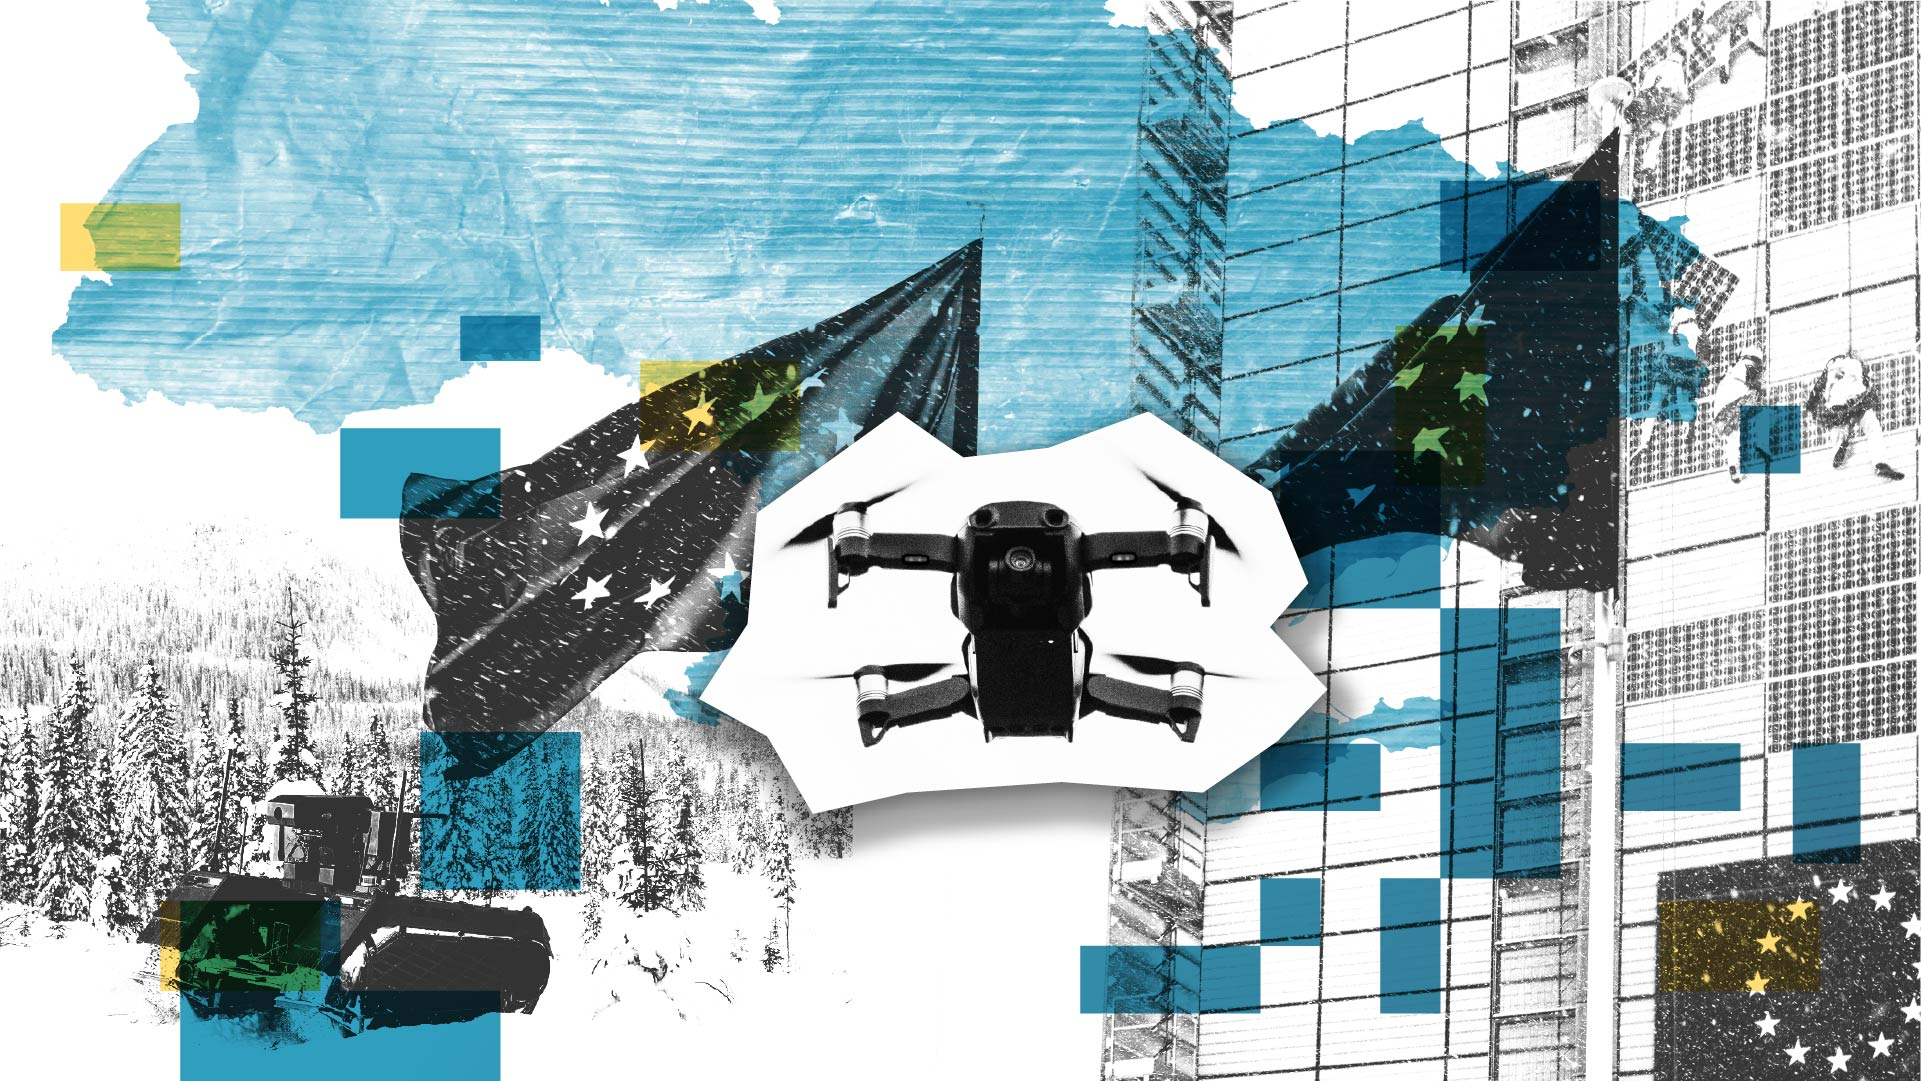
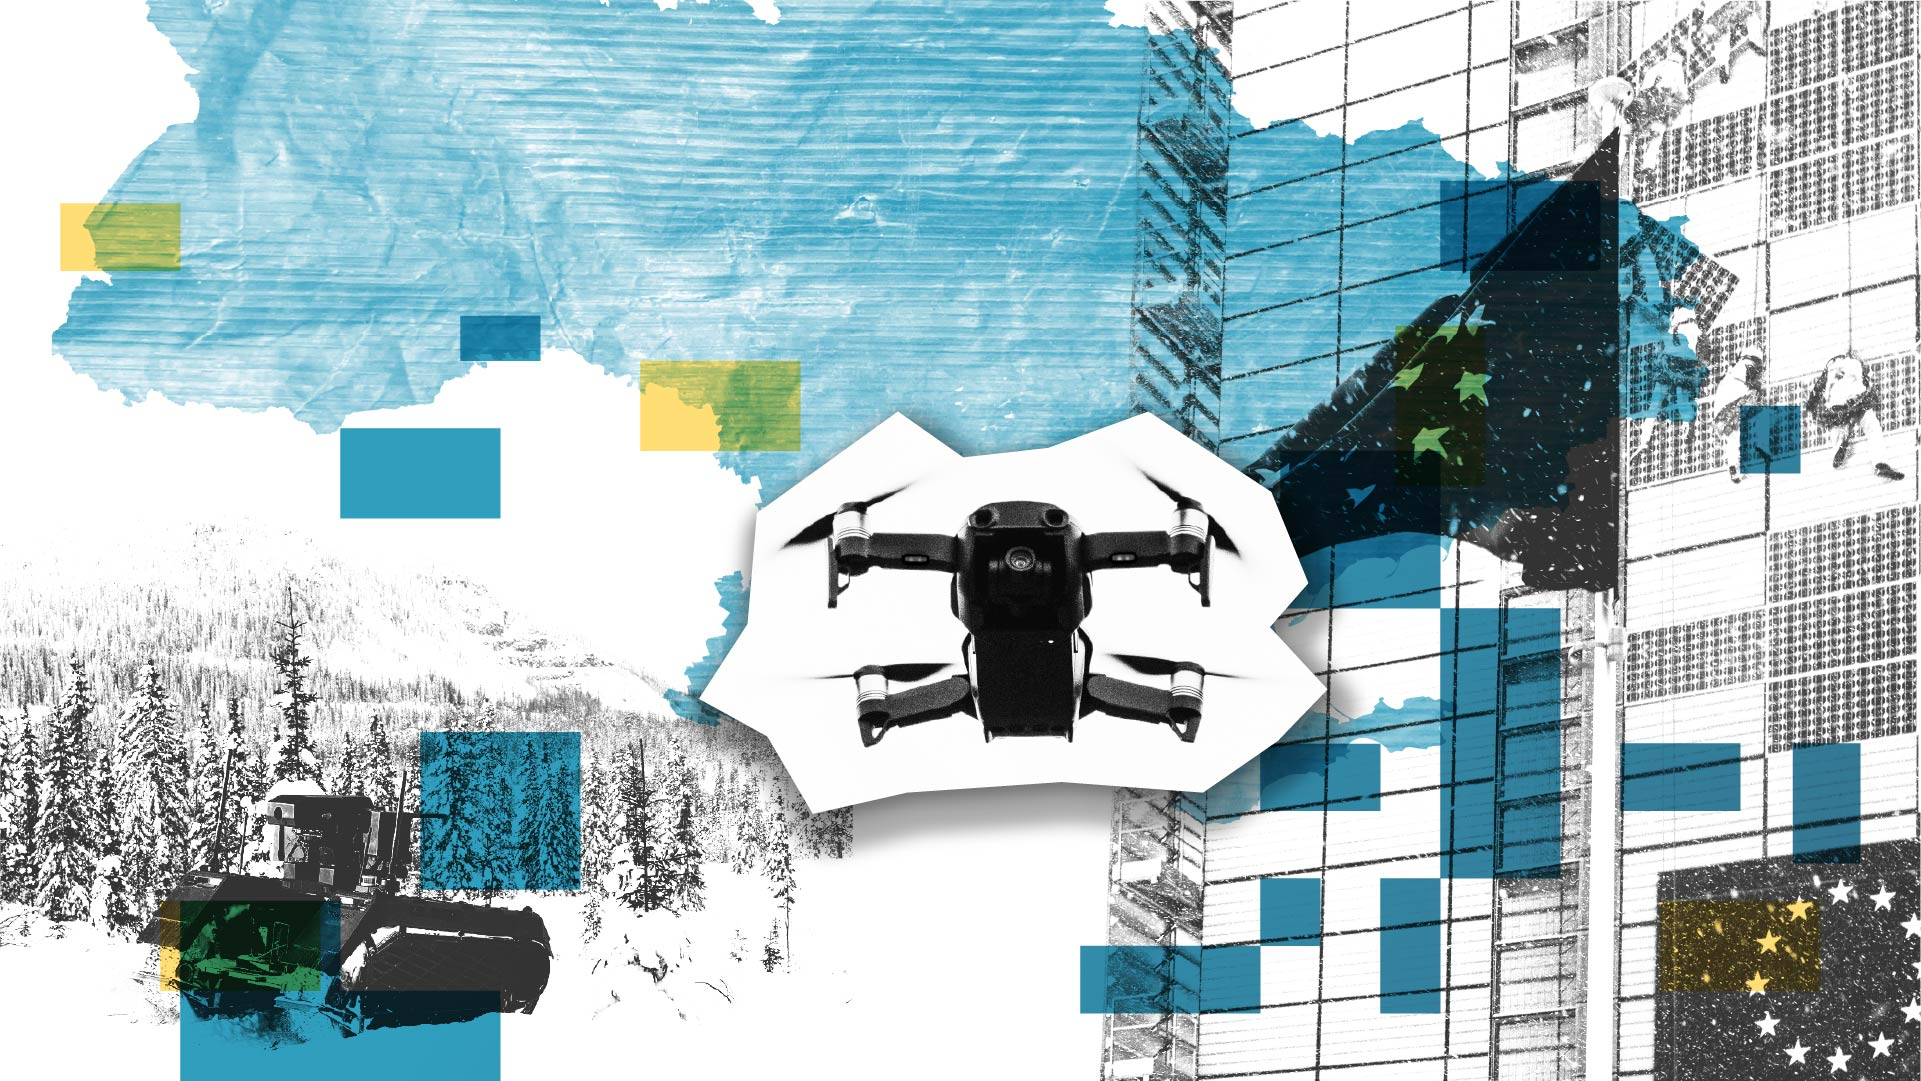
odls tile

Changed region(s): [[0.1874, 0.2137, 0.531, 0.7327], [0.5934, 0.9463, 0.6247, 0.9769], [0.5934, 0.8242, 0.6247, 0.8548]]

diff --git a/tiles_rev1.html b/tiles_rev1.html
@@ -168,20 +168,6 @@
     }
 </style>
 
-<!-- ── CHAPTER CARDS WITH HERO IMAGES ───────────────────────── -->
-
-<p class="body_4-body">More than three years into Russia's full-scale invasion, Ukraine's survival is no longer the only
-    question on the table — its long-term empowerment is. That shift demands more than emergency support: it calls for a
-    coherent European strategy that spans sanctions enforcement, defence-industrial cooperation, enlargement, and
-    reconstruction alike.</p>
-
-<p class="body_4-body">This collection brings together eleven chapters from EU policy analysts, each examining a
-    distinct front in that effort — from closing sanctions loopholes on Russian energy and countering Kremlin
-    recruitment abroad, to deepening joint arms production, financing reconstruction, and getting enlargement right.</p>
-
-<p class="body_4-body">Together, they set out a practical agenda for turning wartime solidarity into structural support
-    — one that outlasts the current phase of the war and gives Ukraine the tools to shape its own recovery.</p>
-
 <!-- ── CHAPTER CARDS WITH HERO IMAGES ─────────────────────────
      Hero images replace author mugshots throughout this section.
      template_energy.jpg → Chapter 1 (Energy & sanctions)
@@ -192,11 +178,12 @@
 
     <!-- INTRO BLURB -->
     <div class="intro-blurb">
-        <p class="body_4-body">Three years into Russia's full-scale invasion, survival is no longer the only
-            question facing Ukraine — its long-term empowerment is. This introduction sets out why the EU needs
-            a coherent strategy spanning sanctions enforcement, defence-industrial cooperation, enlargement and
-            reconstruction, and frames the eleven chapters that follow as a practical agenda for getting
-            <span class="body_0-no-break">there.</span>
+        <p class="body_4-body">Europe should step up its support for Ukraine, despite its limited resources.
+            Fortunately, it can still seize opportunities, address systemic flaws, and find ways around seemingly
+            intractable obstacles.
+            This is the time to increase the pressure on Russia, and to strengthen Ukraine’s capacity to secure a
+            favourable peace agreement and manage the aftermath.
+            </span>
         </p>
         <a class="chapter-card-readmore" href="#" target="_blank">Read the interactive introduction →</a>
     </div>
@@ -215,10 +202,24 @@
         </a>
     </div>
 
+
+
     <!-- SPACER -->
     <div class="chapter-grid-spacer">
         <h3>Explore the chapters</h3>
-        <p class="body_4-body">Click on a chapter to dive into each priority in depth.</p>
+        <p style="text-align: left; margin-bottom: 1em;">The contributions to this collection look beyond the immediate
+            challenges of the war.
+            They propose new ways in which the EU can empower Ukraine, explain why these ideas could have a
+            transformative impact, and show how they could be translated into policy by building on existing
+            initiatives.
+        </p>
+        <p style="text-align: left; margin-bottom: 1em;">
+            They cover a range of subjects: from building societal resilience to deepening defence-industrial
+            cooperation to strengthening the foundations of deterrence and defence against Russia; from reconstruction
+            and recovery to Ukraine’s gradual integration into the EU; and from reinforcing international support
+            networks for Ukraine to dismantling Russian influence networks across Africa.
+        </p>
+        <p class="body_4-body"><i>Click on a chapter to dive into each priority in depth.</i></p>
     </div>
 
     <!-- CHAPTER 1 -->
@@ -234,7 +235,9 @@
             </div>
             <h5 class="chapter-card-subtitle">Engaging Ukrainians in Europe for resilience and security</h5>
         </a>
-        <p class="body_4-body">...</span>
+        <p class="body_4-body">Millions of Ukrainians living across Europe are not only refugees but a strategic asset
+            for Ukraine’s democratic future. Stronger support for diaspora engagement could reinforce democratic
+            resilience, counter Russian interference and benefit both Ukraine and the EU. </span>
         </p>
         <a class="chapter-card-readmore" href="#" target="_blank">Read chapter 1 →</a>
     </div>
@@ -253,7 +256,9 @@
             <h5 class="chapter-card-subtitle">Countering Russian recruitment in Africa and beyond</h5>
         </a>
         <p class="body_4-body">
-            ...</span>
+            Russia is using fraudulent job advertisements and bogus scholarship schemes to recruit vulnerable foreign
+            nationals into its war effort. An EU-backed anti-scam network could expose recruitment schemes, protect
+            victims and help Ukraine, African partners and civil society disrupt criminal networks. </span>
         </p>
         <a class="chapter-card-readmore" href="#" target="_blank">Read chapter 2 →</a>
     </div>
@@ -271,7 +276,9 @@
             </div>
             <h5 class="chapter-card-subtitle">How the EU can turn Trump’s pro-Ukraine moment into concrete action</h5>
         </a>
-        <p class="body_4-body">...
+        <p class="body_4-body">Europe should assume that Washington’s renewed openness to Ukraine will be short-lived. A
+            coordinated push could secure stronger US backing, increase pressure on Russia and expand defence production
+            for Ukraine in Europe.
             <a class="chapter-card-readmore" href="#" target="_blank">Read chapter 3 →</a>
     </div>
 
@@ -289,7 +296,9 @@
             <h5 class="chapter-card-subtitle">Calibrating China’s role in Ukraine’s reconstruction</h5>
         </a>
         <p class="body_4-body">
-            ...</span>
+            Ukraine cannot ignore Chinese capital, but it cannot afford new strategic dependencies either. Stronger
+            screening and regulatory safeguards could allow selective engagement with China while protecting critical
+            infrastructure and long-term security.</span>
         </p>
         <a class="chapter-card-readmore" href="#" target="_blank">Read chapter 4 →</a>
     </div>
@@ -307,7 +316,9 @@
             </div>
             <h5 class="chapter-card-subtitle">How to advance Ukraine's EU integration before membership</h5>
         </a>
-        <p class="body_4-body">...</span>
+        <p class="body_4-body">Full EU membership will take time, but integration does not have to wait. Faster
+            functional, political and societal integration could deliver immediate benefits while advancing Ukraine’s
+            path towards accession.</span>
         </p>
         <a class="chapter-card-readmore" href="#" target="_blank">Read chapter 5 →</a>
     </div>
@@ -326,7 +337,9 @@
             <h5 class="chapter-card-subtitle">How to make Ukraine a pillar of European energy security</h5>
         </a>
         <p class="body_4-body">
-            ...</span>
+            Ukraine’s wartime experience offers lessons that could reshape Europe’s energy future. Sustained investment,
+            joint planning and deeper integration could rebuild a cleaner, more resilient energy system that strengthens
+            both Ukraine and European security.</span>
         </p>
         <a class="chapter-card-readmore" href="#" target="_blank">Read chapter 6 →</a>
     </div>
@@ -345,7 +358,9 @@
             <h5 class="chapter-card-subtitle">Better use of joint ventures can accelerate Ukraine’s integration into the
                 EU defence industrial base</h5>
         </a>
-        <p class="body_4-body">...</span>
+        <p class="body_4-body">Ukraine’s defence industry needs access to capital, technology, production capacity and
+            markets to remain competitive after the war. EU-based joint ventures could deepen industrial integration,
+            strengthen Europe’s defence base and secure Ukraine’s long-term economic and security resilience.</span>
         </p>
         <a class="chapter-card-readmore" href="#" target="_blank">Read chapter 7 →</a>
     </div>
@@ -364,7 +379,9 @@
             <h5 class="chapter-card-subtitle">How to make the most of the reconstruction funding</h5>
         </a>
         <p class="body_4-body">
-            ...</span>
+            Ukraine needs a smarter way to manage the vast flows of reconstruction funding. A single digital 'collector
+            pipeline' could integrate donor finance, improve transparency, strengthen planning and ensure recovery
+            resources reach the projects that need them most.</span>
         </p>
         <a class="chapter-card-readmore" href="#" target="_blank">Read chapter 8 →</a>
     </div>
@@ -383,7 +400,9 @@
             <h5 class="chapter-card-subtitle">How to facilitate reconstruction while deconflicting EU and US approaches
             </h5>
         </a>
-        <p class="body_4-body">...</span>
+        <p class="body_4-body">Competing national and institutional interests risk undermining Ukraine’s recovery. A
+            G7-based Peace and Prosperity Compact could align EU, US and partner efforts, reduce collective action
+            problems and create the conditions needed for sustained private investment.</span>
         </p>
         <a class="chapter-card-readmore" href="#" target="_blank">Read chapter 9 →</a>
     </div>
@@ -402,7 +421,9 @@
             <h5 class="chapter-card-subtitle">Mobilising big business to rebuild Ukraine </h5>
         </a>
         <p class="body_4-body">
-            ...</span>
+            Ukraine’s reconstruction will depend on attracting major private investors despite ongoing security risks. A
+            new 'Big on Board' initiative could combine smarter investment incentives with stronger EU de-risking
+            measures to unlock large-scale private capital for recovery.</span>
         </p>
         <a class="chapter-card-readmore" href="#" target="_blank">Read chapter 10 →</a>
     </div>